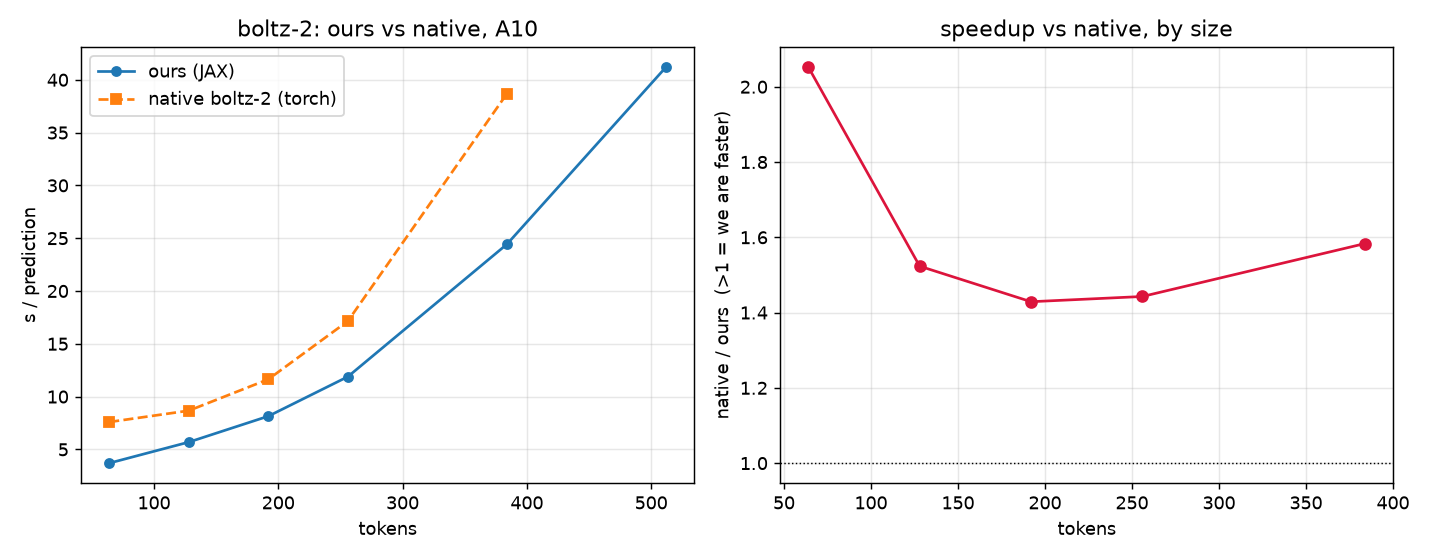
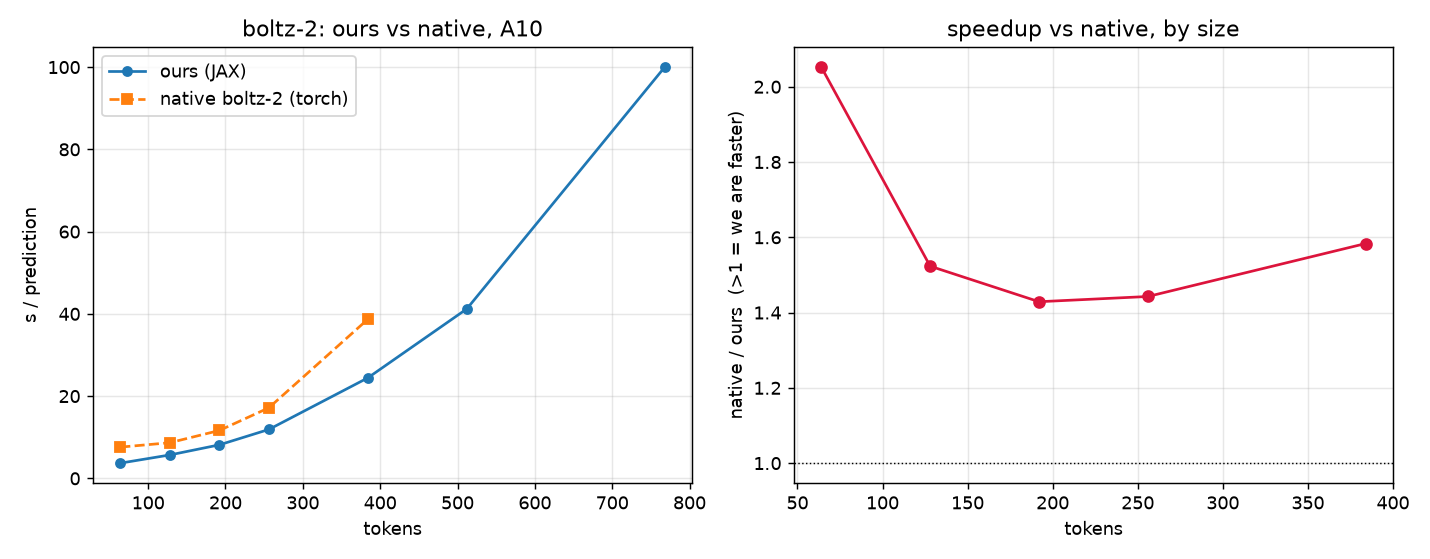
benchmarks: extend to 1024 tokens, and start measuring memory
The timing grid now runs 64-1024 for all nine ports (72 cells). We had never
recorded MEMORY, which was awkward, because the most interesting thing at large
sizes had become a memory claim -- "native OOMs at 768 where we do not" -- resting
on no number. bench_sweep.py now emits peak GiB from
memory_stats()['peak_bytes_in_use'], the allocator's high-water mark; nvidia-smi
reports what JAX pre-allocated, which is a constant.

RUNTIME DOES NOT PREDICT FOOTPRINT, which is the whole reason to measure both.
boltz2 is 2.3x FASTER than protenix2 at 512 tokens (41.2 s vs 60.5 s) and uses
42% MORE memory (6.88 GiB vs 4.86) -- so boltz2 OOMs at 1024 and protenix2, the
slower one, does not. Nothing in a runtime plot tells you that.

    model               64     128     192     256     384     512     768    1024
    opendde           2.82    3.78    5.31    7.43   13.57     OOM     OOM     OOM
    intellifold2      2.58    3.03    3.49    3.91    5.06    7.36   13.39     OOM
    boltz2            2.10    2.26    2.68    3.27    4.71    6.88   13.06     OOM
    protenix2         2.01    2.24    2.47    2.70    3.66    4.86    8.69       -
    chai1             1.39    1.53    1.83    2.04    3.00    4.25    7.93       -
    openfold3         1.55    1.64    1.76    1.88    2.35    3.01    4.82    7.20
    rosettafold3      1.56    1.64    1.76    1.88    2.34    2.97    4.83       -
    openbind          1.56    1.64    1.76    1.88    2.35    3.01    4.82       -
[…]

diff --git a/docs/benchmarks/plot_memory.py b/docs/benchmarks/plot_memory.py
@@ -1,0 +1,108 @@
+"""Peak device memory per (model, length), and why it is not the runtime story.
+
+    python docs/benchmarks/plot_memory.py <dir holding mem_a10.tsv, sweep_a10.tsv>
+
+Reads the PEAK column that bench_sweep.py records from
+`memory_stats()['peak_bytes_in_use']` -- the allocator's high-water mark, not
+nvidia-smi, which with JAX pre-allocating most of the card reports a constant
+that says nothing about the model.
+
+Two plots:
+  memory_all_A10.png    peak GiB vs tokens, with the card's usable ceiling and
+                        an X where a model OOMs
+  memory_vs_runtime.png the same cells as (seconds, GiB) -- the point being that
+                        the two do not rank the same way, so a runtime plot
+                        cannot tell you which model will fit
+"""
+import os, sys, collections
+import matplotlib
+matplotlib.use('Agg')
+import matplotlib.pyplot as plt
+
+S = sys.argv[1] if len(sys.argv) > 1 else '.'
+HERE = os.path.dirname(os.path.abspath(__file__))
+CARD_GIB = 22.0   # usable on a 23 GB A10 once the context and params are resident
+
+
+def load(path, col):
+  """-> ({model: [(L, value)]}, {model: first OOM length})."""
+  vals, oom = collections.defaultdict(list), {}
+  if not os.path.exists(path):
+    return vals, oom
+  for line in open(path):
+    f = line.rstrip('\n').split('\t')
+    if len(f) < 3 or not f[1].isdigit():
+      continue
+    m, L = f[0], int(f[1])
+    if f[2] == 'OOM':
+      oom[m] = min(oom.get(m, 10 ** 9), L)
+    elif len(f) > col and f[col]:
+      try:
+        vals[m].append((L, float(f[col])))
+      except ValueError:
+        pass
+  for m in vals:
+    vals[m].sort()
+  return vals, oom
+
+
+mem, mem_oom = load(f'{S}/mem_a10.tsv', 7)      # column 8: peak GiB
+sec, sec_oom = load(f'{S}/sweep_a10.tsv', 5)    # column 6: steady seconds
+if not mem:
+  raise SystemExit('no mem_a10.tsv rows with a peak column; re-run the memory sweep')
+
+order = sorted(mem, key=lambda m: -max(v for _, v in mem[m]))
+cmap = plt.get_cmap('tab10')
+colour = {m: cmap(i % 10) for i, m in enumerate(sorted(mem))}
+# openfold3, openbind and rosettafold3 sit exactly on top of each other -- all
+# three are pair_channel=128 with the same block counts, so their footprints
+# agree to ~0.02 GiB. That is a result, not a plotting bug, but three curves
+# under one line reads as one curve, so vary the dash.
+STYLE = {'openfold3': '-', 'openbind': '--', 'rosettafold3': ':'}
+
+fig, (ax1, ax2) = plt.subplots(1, 2, figsize=(12.5, 4.8))
+for m in order:
+  xs = [p[0] for p in mem[m]]
+  ys = [p[1] for p in mem[m]]
+  for ax in (ax1, ax2):
+    ax.plot(xs, ys, 'o' + STYLE.get(m, '-'), ms=4, color=colour[m], label=m)
+  if m in mem_oom:                    # mark where it stopped fitting
+    ax1.plot([mem_oom[m]], [CARD_GIB], 'x', ms=11, mew=2.5, color=colour[m])
+for ax, t, sc in ((ax1, 'peak memory vs length (A10, 23 GB)', 'linear'),
+                  (ax2, 'same, log-log', 'log')):
+  ax.axhline(CARD_GIB, color='k', lw=.9, ls=':')
+  ax.set_xscale(sc); ax.set_yscale(sc)
+  ax.set_xlabel('tokens'); ax.set_ylabel('peak GiB'); ax.set_title(t)
+  ax.grid(alpha=.3)
+ax1.annotate('card limit (X = OOM)', (0.02, 0.86), xycoords='axes fraction',
+             fontsize=8, color='dimgray')
+ax1.legend(fontsize=7, ncol=2)
+fig.tight_layout(); fig.savefig(f'{HERE}/memory_all_A10.png', dpi=130)
+print('wrote memory_all_A10.png')
+
+# Runtime does not predict footprint. Same cells, plotted against each other.
+fig, ax = plt.subplots(figsize=(6.6, 5.2))
+for m in sorted(mem):
+  d = dict(sec.get(m, []))
+  pts = [(d[L], g) for L, g in mem[m] if L in d]
+  if not pts:
+    continue
+  ax.plot([p[0] for p in pts], [p[1] for p in pts], 'o' + STYLE.get(m, '-'),
+          ms=4, color=colour[m], label=m)
+ax.axhline(CARD_GIB, color='k', lw=.9, ls=':')
+ax.set_xscale('log'); ax.set_yscale('log')
+ax.set_xlabel('s / prediction'); ax.set_ylabel('peak GiB')
+ax.set_title('footprint vs runtime — the orderings differ')
+ax.grid(alpha=.3); ax.legend(fontsize=7, ncol=2)
+fig.tight_layout(); fig.savefig(f'{HERE}/memory_vs_runtime.png', dpi=130)
+print('wrote memory_vs_runtime.png')
+
+print('\npeak GiB by length')
+Ls = sorted({L for m in mem for L, _ in mem[m]})
+print(f'{"model":14s}' + ''.join(f'{L:>8d}' for L in Ls))
+for m in order:
+  d = dict(mem[m])
+  row = ''.join(f'{d[L]:>8.2f}' if L in d else
+                f'{"OOM":>8s}' if m in mem_oom and L >= mem_oom[m] else f'{"-":>8s}'
+                for L in Ls)
+  print(f'{m:14s}{row}')

diff --git a/docs/benchmarks/README.md b/docs/benchmarks/README.md
@@ -38,7 +38,38 @@ run. `openbind` needs openfold3>=0.5, which the `~/of3_extra` install predates.
 
 ## Results
 
-`runtime_all_A10.png` -- all nine ports, linear and log-log.
+`runtime_all_A10.png` -- all nine ports, linear and log-log, 64 to 1024 tokens.
+
+`memory_all_A10.png` / `memory_vs_runtime.png` -- PEAK DEVICE MEMORY, from
+`memory_stats()['peak_bytes_in_use']` (the allocator's high-water mark; nvidia-smi
+reports what JAX pre-allocated, which is a constant and says nothing). Produced by
+`plot_memory.py` from `mem_a10.tsv`, a separate one-call-per-cell pass -- peak is
+reached on the first call, so the TIMINGS IN THAT FILE ARE NOT USABLE, only
+column 8.
+
+Peak GiB, A10:
+
+    model               64     128     192     256     384     512     768    1024
+    opendde           2.82    3.78    5.31    7.43   13.57     OOM     OOM     OOM
+    intellifold2      2.58    3.03    3.49    3.91    5.06    7.36   13.39     OOM
+    boltz2            2.10    2.26    2.68    3.27    4.71    6.88   13.06     OOM
+    protenix2         2.01    2.24    2.47    2.70    3.66    4.86    8.69       -
+    chai1             1.39    1.53    1.83    2.04    3.00    4.25    7.93       -
+    openfold3         1.55    1.64    1.76    1.88    2.35    3.01    4.82    7.20
+    rosettafold3      1.56    1.64    1.76    1.88    2.34    2.97    4.83       -
+    openbind          1.56    1.64    1.76    1.88    2.35    3.01    4.82       -
+    alphafold3        1.23    1.31    1.43    1.55    2.02    2.68    4.50    6.89
+
+**Runtime does not predict footprint**, which is the reason to measure both.
+boltz2 is 2.3x FASTER than protenix2 at 512 tokens (41.2 s against 60.5 s) and
+uses 42% MORE memory (6.88 GiB against 4.86) -- so boltz2 OOMs at 1024 while
+protenix2, the slower model, keeps running. A runtime plot cannot tell you which
+model will fit on your card.
+
+openfold3, openbind and rosettafold3 agree to ~0.02 GiB at every length, which
+is what three pair_channel=128 graphs with the same block counts should do; they
+are drawn with different dashes because otherwise two of the three vanish under
+the third.
 `runtime_per_model.png` -- one panel per port, per GPU, native where available.
 `boltz2_vs_native.png` -- ours vs native boltz-2, and the ratio by size.
 
